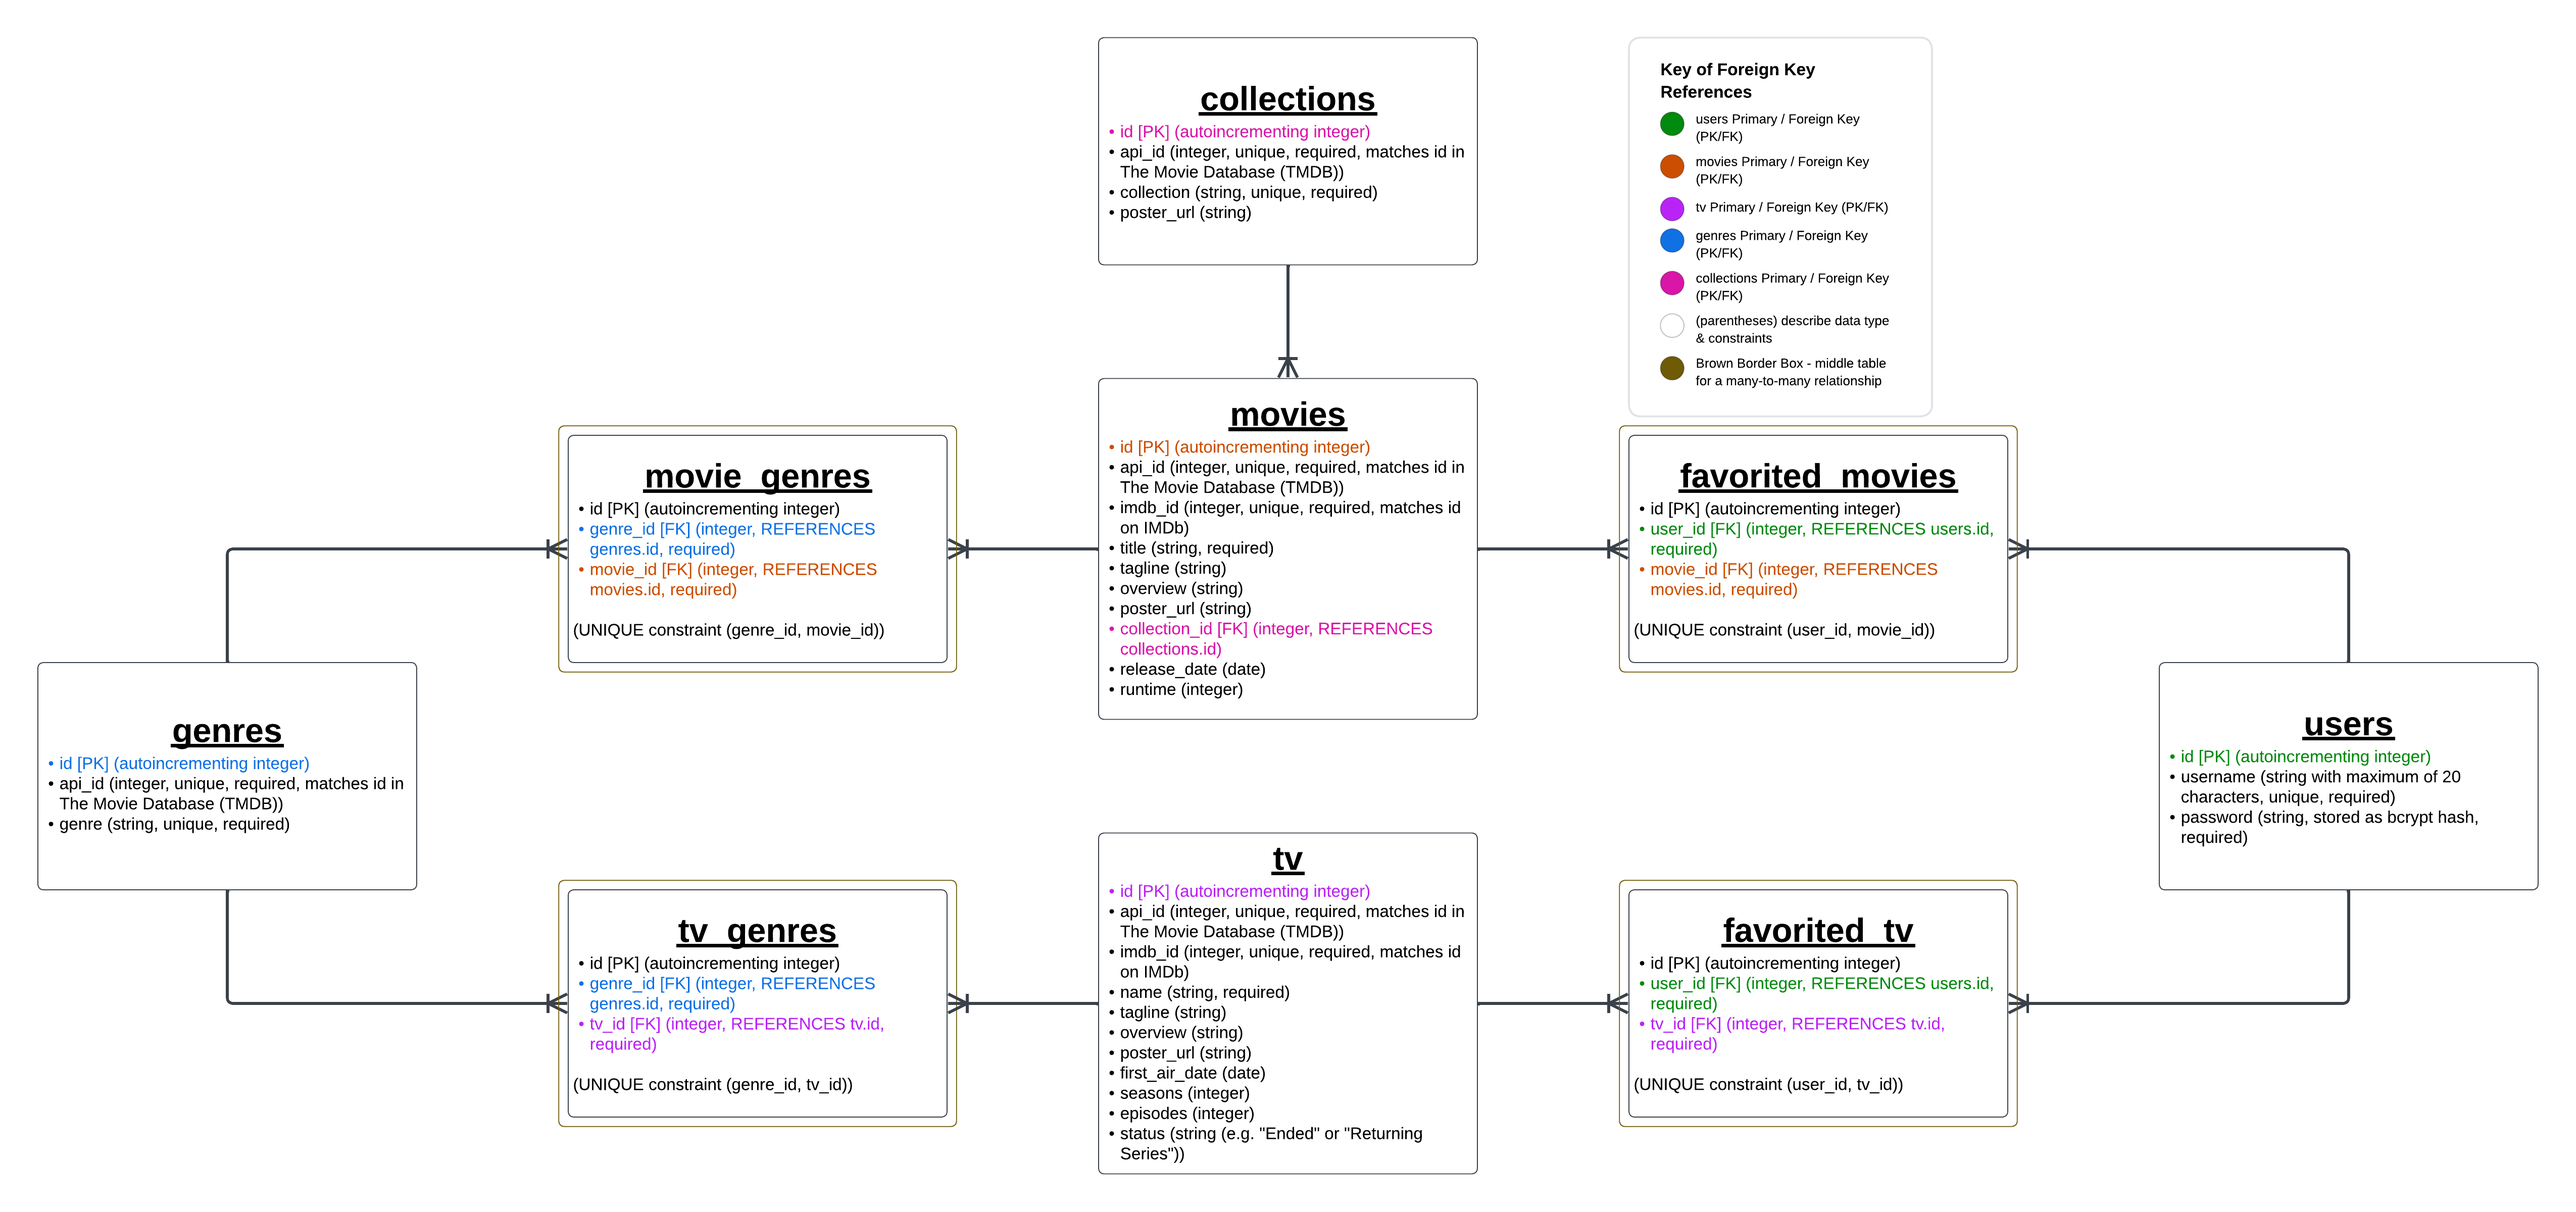
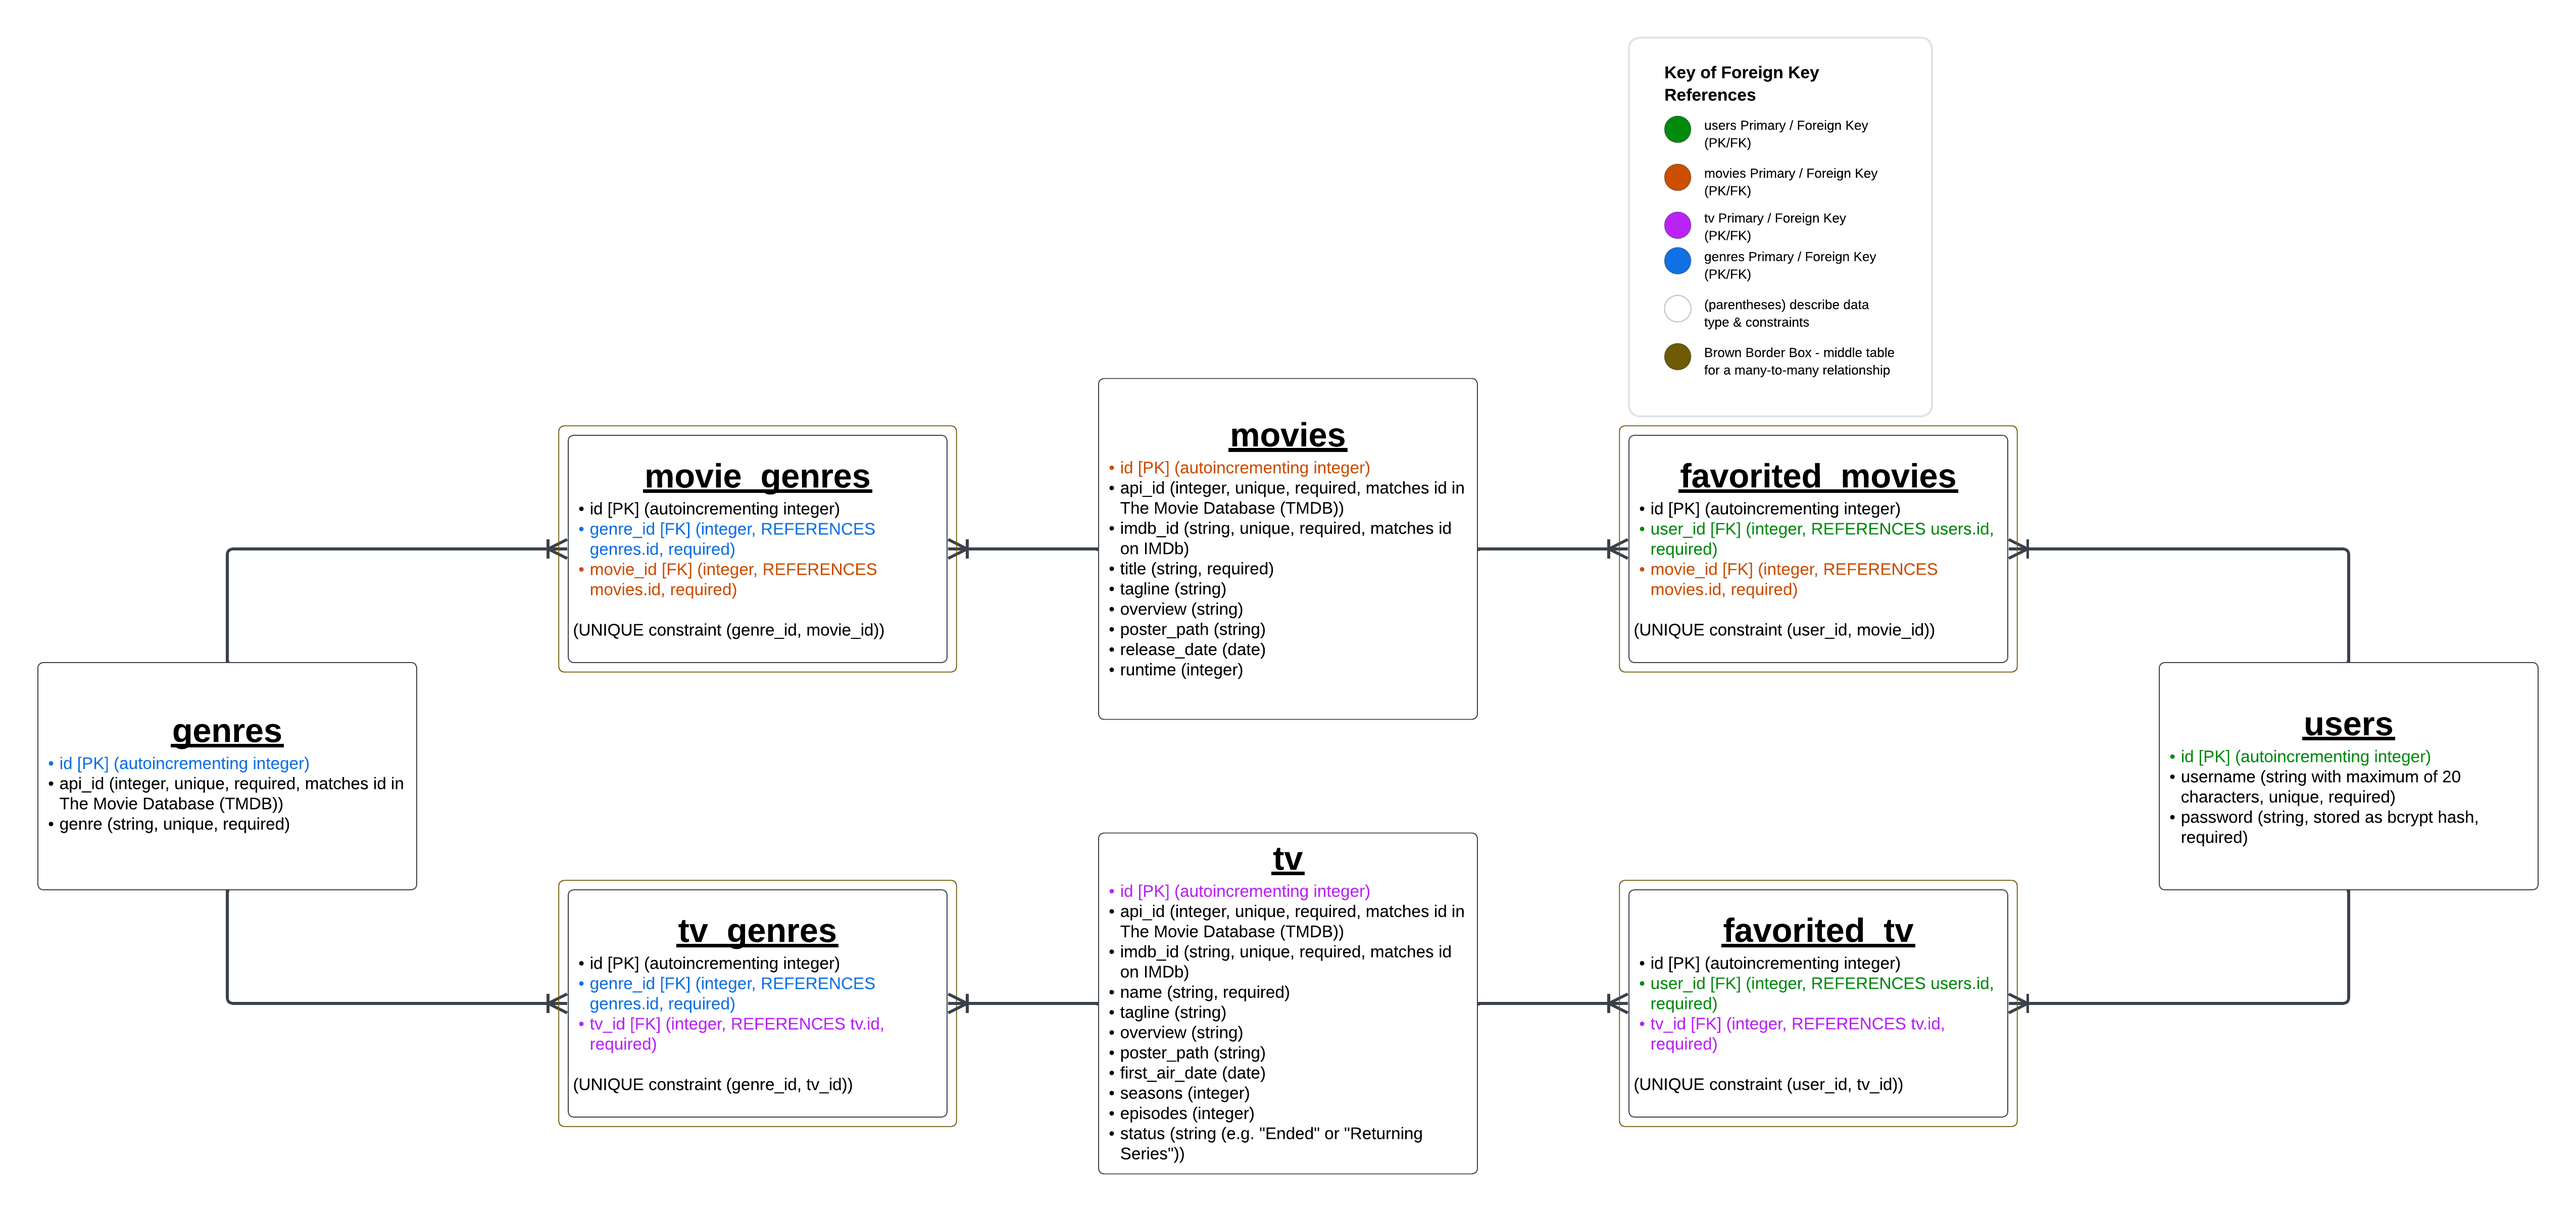
feats[backend]: allow API user to add movies to their favorites; allow API user to get all their current favorite movies; docs: update database_schema to reflect removal of collections table and a few minor changes to the movies and tv tables

diff --git a/backend/models/movie.js b/backend/models/movie.js
@@ -1,4 +1,5 @@
 const axios = require('axios');
+const db = require('../db');
 const {
 	apiBaseUrl,
 	apiImageUrl,
@@ -14,34 +15,73 @@ const APPEND_TO_RESPONSE = {
 };
 
 class Movie {
-	static async get(id) {
+	static async getRawData(id) {
 		const res = await axios.get(apiBaseUrl + MOVIE_PATH + `/${id}`, {
 			headers: apiRequestHeaders,
 			params: APPEND_TO_RESPONSE,
 		});
-		let movie = {};
-		if (res && res.data) {
-			movie.api_id = res.data.id;
-			movie.imdb_url = imdbBaseUrl + res.data.imdb_id;
-			movie.title = res.data.title;
-			movie.tagline = res.data.tagline;
-			movie.genres = res.data.genres;
-			movie.overview = res.data.overview;
-			movie.poster_url = apiImageUrl + posterSize + res.data.poster_path;
-			movie.release_date = res.data.release_date;
-			movie.runtime = res.data.runtime;
-			movie.videos = res.data.videos.results;
-			movie.streaming = res.data['watch/providers'].results.US.flatrate;
-			movie.credits = res.data.credits;
-		}
+		return res.data;
+	}
+
+	static filterData(raw) {
+		const movie = {
+			api_id: raw.id,
+			imdb_url: imdbBaseUrl + raw.imdb_id,
+			title: raw.title,
+			tagline: raw.tagline,
+			genres: raw.genres,
+			overview: raw.overview,
+			poster_url: apiImageUrl + posterSize + raw.poster_path,
+			release_date: raw.release_date,
+			runtime: raw.runtime,
+			videos: raw.videos.results,
+			streaming: raw['watch/providers'].results.US.flatrate,
+			credits: raw.credits,
+		};
 		return movie;
 	}
+
+	static async get(id) {
+		const raw = await Movie.getRawData(id);
+		const movie = Movie.filterData(raw);
+		return movie;
+	}
+
 	static async search(query) {
 		const res = await axios.get(apiBaseUrl + searchPath + MOVIE_PATH, {
 			headers: apiRequestHeaders,
 			params: { query },
 		});
 		return res.data.results;
+	}
+
+	static async save(id) {
+		const movie = await Movie.getRawData(id);
+		const query = `INSERT INTO movies
+		(api_id, imdb_id, title, tagline, overview, poster_path, release_date, runtime)
+		VALUES ($1, $2, $3, $4, $5, $6, $7, $8)
+		RETURNING id, api_id, imdb_id, title, tagline, overview, poster_path, release_date, runtime`;
+		const results = await db.query(query, [
+			movie.id,
+			movie.imdb_id,
+			movie.title,
+			movie.tagline,
+			movie.overview,
+			movie.poster_path,
+			movie.release_date,
+			movie.runtime,
+		]);
+		return results.rows[0];
+	}
+
+	static async getLocal(id) {
+		const results = await db.query(
+			`SELECT id, api_id, imdb_id, title, tagline, overview, poster_path, release_date, runtime
+			FROM movies
+			WHERE id=$1`,
+			[id]
+		);
+		return results.rows[0];
 	}
 }
 

diff --git a/backend/models/tv.js b/backend/models/tv.js
@@ -14,30 +14,40 @@ const APPEND_TO_RESPONSE = {
 };
 
 class Tv {
-	static async get(id) {
+	static async getRawData(id) {
 		const res = await axios.get(apiBaseUrl + TV_PATH + `/${id}`, {
 			headers: apiRequestHeaders,
 			params: APPEND_TO_RESPONSE,
 		});
-		let series = {};
-		if (res && res.data) {
-			series.api_id = res.data.id;
-			series.imdb_url = imdbBaseUrl + res.data.external_ids.imdb_id;
-			series.name = res.data.name;
-			series.tagline = res.data.tagline;
-			series.genres = res.data.genres;
-			series.overview = res.data.overview;
-			series.poster_url = apiImageUrl + posterSize + res.data.poster_path;
-			series.first_air_date = res.data.first_air_date;
-			series.seasons = res.data.number_of_seasons;
-			series.episodes = res.data.number_of_episodes;
-			series.status = res.data.status;
-			series.videos = res.data.videos.results;
-			series.streaming = res.data['watch/providers'].results.US.flatrate;
-			series.credits = res.data.credits;
-		}
+		return res.data;
+	}
+
+	static filterData(raw) {
+		const series = {
+			api_id: raw.id,
+			imdb_url: imdbBaseUrl + raw.external_ids.imdb_id,
+			name: raw.name,
+			tagline: raw.tagline,
+			genres: raw.genres,
+			overview: raw.overview,
+			poster_url: apiImageUrl + posterSize + raw.poster_path,
+			first_air_date: raw.first_air_date,
+			seasons: raw.number_of_seasons,
+			episodes: raw.number_of_episodes,
+			status: raw.status,
+			videos: raw.videos.results,
+			streaming: raw['watch/providers'].results.US.flatrate,
+			credits: raw.credits,
+		};
 		return series;
 	}
+
+	static async get(id) {
+		const raw = await Tv.getRawData(id);
+		const series = Tv.filterData(raw);
+		return series;
+	}
+
 	static async search(query) {
 		const res = await axios.get(apiBaseUrl + searchPath + TV_PATH, {
 			headers: apiRequestHeaders,

diff --git a/backend/models/user.js b/backend/models/user.js
@@ -1,5 +1,6 @@
 const db = require('../db');
 const bcrypt = require('bcrypt');
+const Movie = require('./movie');
 const { bcryptWorkFactor } = require('../config');
 
 class User {
@@ -70,6 +71,26 @@ class User {
 			[newUsername, username]
 		);
 		return results.rows[0];
+	}
+
+	static async getFavorites(id) {
+		const results = await db.query(
+			`SELECT movies.id, api_id, imdb_id, title, tagline, overview, poster_path, release_date, runtime
+			FROM movies
+			JOIN favorited_movies ON movies.id = favorited_movies.movie_id
+			WHERE user_id=$1`,
+			[id]
+		);
+		return results.rows;
+	}
+
+	static async addFavorite(userId, movieApiId) {
+		const movie = await Movie.save(movieApiId);
+		await db.query(
+			`INSERT INTO favorited_movies (user_id, movie_id)
+			VALUES ($1, $2)`,
+			[userId, movie.id]
+		);
 	}
 }
 

diff --git a/backend/routes/users.js b/backend/routes/users.js
@@ -22,4 +22,17 @@ router.patch('/:id/change-username', verifyCorrectUser, async (req, res) => {
 	return res.json({ token });
 });
 
+router.get('/:id/favorited-movies', verifyCorrectUser, async (req, res) => {
+	const user = res.locals.user;
+	const favorites = await User.getFavorites(user.id);
+	return res.json({ favorites });
+});
+
+router.post('/:id/favorited-movies', verifyCorrectUser, async (req, res) => {
+	const { id } = req.body;
+	const user = res.locals.user;
+	await User.addFavorite(user.id, id);
+	return res.json('favorited');
+});
+
 module.exports = router;
